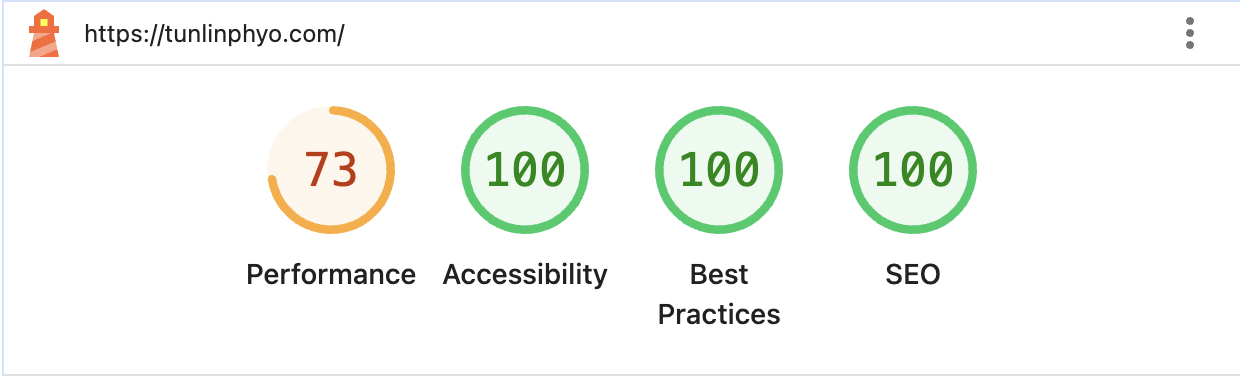
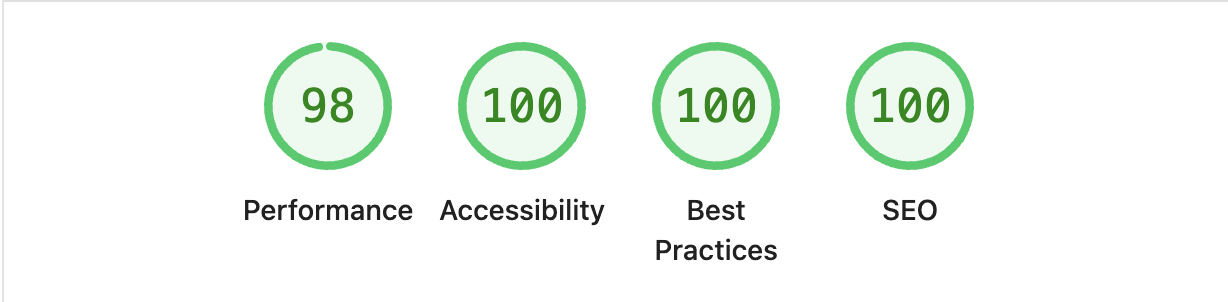
improve performance and lighthouse score

diff --git a/src/scripts/loading.ts b/src/scripts/loading.ts
@@ -89,14 +89,6 @@ export class PageLoading {
         disabledScroll.on()
 
         return new Promise(resolve => {
-            gsap.to('.loading-bouncer', {
-                height: 0,
-                y: '0',
-                onComplete: () => {
-                    const el = document.querySelector<HTMLElement>('.loading-bouncer')
-                    el?.remove()
-                }
-            })
 
             setTimeout(() => {
                 this.loadingTimeline.kill()
@@ -115,6 +107,14 @@ export class PageLoading {
                         resolve(true)
                     }
                 })
+                .to('.loading-bouncer', {
+                    height: 0,
+                    y: '-25vh',
+                    onComplete: () => {
+                        const el = document.querySelector<HTMLElement>('.loading-bouncer')
+                        el?.remove()
+                    }
+                }, "<")
                 .to('.animator--two', {
                     "--height": "25vh",
                     y: "12.5vh",

diff --git a/src/main.ts b/src/main.ts
@@ -90,11 +90,16 @@ async function main() {
     App.trackContactClick()
     App.animateHoverElemets()
 
-    const { BrowserCheck } = await import("./scripts/browser")
+    const [{ Utils }, { BrowserCheck }] = await Promise.all([
+        import('./scripts/utils'),
+        import("./scripts/browser")
+    ])
+
+    Utils.elem('.projectCarousel-container').style.setProperty('--opacity', '0.2')
 
     BrowserCheck.runIfComputerBrowser(async () => {
-        const [{ Utils }, { JapanSeason, Season }, { default: p5 }] = await Promise.all([
-            import('./scripts/utils'),
+        const [{ JapanSeason, Season }, { default: p5 }] = await Promise.all([
+            
             import("./scripts/season"),
             import("p5"),
         ])

diff --git a/index.html b/index.html
@@ -394,9 +394,8 @@
                         </div>
                         <div class="project-label" inert></div>
                         <div class="project-description" inert></div>
-                        <a class="project-link cursor--link"
-                            data-cursor="open" target="_blank" inert tabindex="0"
-                            rel="noopener noreferrer">open website</a>
+                        <a class="project-link cursor--link" inert href="/"
+                            rel="noopener noreferrer" data-cursor="open" target="_blank" tabindex="0">open website</a>
                     </div>
                 </div>
 

diff --git a/src/styles/utils/animations.css b/src/styles/utils/animations.css
@@ -40,7 +40,7 @@
     .loading-bouncer {
         position: absolute;
         width: var(--min-size);
-        height: 20vh;
+        height: 10vh;
         background-color: var(--fg-color);
         border-radius: var(--min-size);
         animation: loadingBouncer 1.5s ease infinite;
@@ -49,11 +49,11 @@
 
 @keyframes loadingBouncer {
     0%, 100% {
-        translate: 0 -4vh;
-        height: 8vh;
+        translate: 0 -3vh;
+        height: 6vh;
     }
     50% {
         translate: 0 -25vh;
-        height: 20vh;
+        height: 10vh;
     }
 }

diff --git a/src/styles/components/projects.css b/src/styles/components/projects.css
@@ -55,7 +55,7 @@
                     text-transform: uppercase;
                     letter-spacing: 0.1em;
                     padding-inline: 3vw;
-                    opacity: 0.2;
+                    opacity: var(--opacity, 1);
                     /* color: transparent;
                     -webkit-text-stroke: 1px var(--fg-color); */
 
